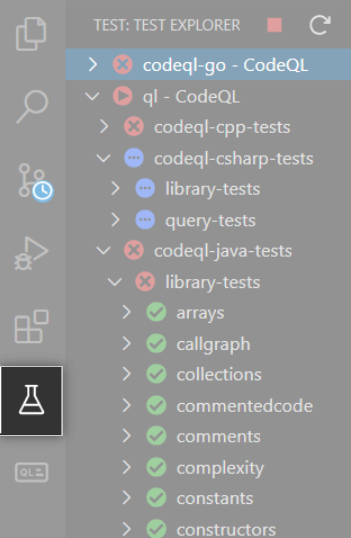
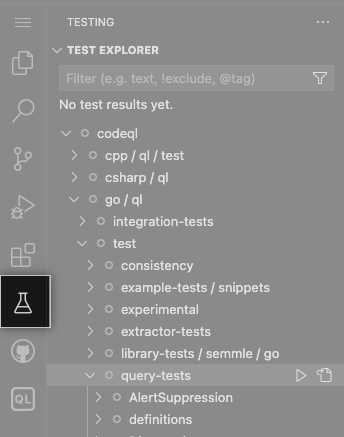
Update documentation for testing CodeQL queries in VS Code

diff --git a/docs/codeql/codeql-for-visual-studio-code/testing-codeql-queries-in-visual-studio-code.rst b/docs/codeql/codeql-for-visual-studio-code/testing-codeql-queries-in-visual-studio-code.rst
@@ -12,27 +12,31 @@ About testing queries in VS Code
 
 To ensure that your CodeQL queries produce the expected results, you can run tests that compare the expected query results with the actual results.
 
-The CodeQL extension automatically prompts VS Code to install the Test Explorer extension as a dependency. The Test Explorer displays any workspace folders with a name ending in ``-tests`` and provides a UI for exploring and running tests in those folders.
+The CodeQL extension automatically registers itself with the **Test Explorer** view. The **Test Explorer** view displays all tests found in your current workspace and provides a UI for exploring and running tests in your workspace.
 
 For more information about how CodeQL tests work, see "`Testing custom queries <https://docs.github.com/en/code-security/codeql-cli/using-the-codeql-cli/testing-custom-queries>`__" in the CLI help.
 
 Testing the results of your queries
 -----------------------------------
 
-1. Open the Test Explorer view in the sidebar.
+1. Open the **Test Explorer** view in the sidebar.
 
    .. image:: ../images/codeql-for-visual-studio-code/open-test-explorer.png
       :width: 350
       :alt: Open the Test Explorer view
 
 2. To run a specific test, hover over the file or folder name and click the play button. To run all tests in your workspace, click the play button at the top of the view. If a test takes too long to run, you can click the stop button at the top of the view to cancel the test.
-3. The icons show whether a test passed or failed. If it failed, right-click the failed test and click **CodeQL: Show Test Output Differences** to display the differences between the expected output and the actual output.
+3. The icons show whether a test passed or failed. If it failed, click the test in the **Test Results** panel to display the differences between the expected output and the actual output.
 
-   .. image:: ../images/codeql-for-visual-studio-code/show-test-diff.png
+   .. image:: ../images/codeql-for-visual-studio-code/test-results-panel.png
+      :width: 800
+      :alt: View the Test Results panel
+
+4. Compare the results. If you want to update the test with the actual output, right-click the test in the **Test Explorer** view and click **Accept Test Output**.
+
+   .. image:: ../images/codeql-for-visual-studio-code/accept-test-output.png
       :width: 400
-      :alt: Show test output differences
-
-4. Compare the results. If you want to update the test with the actual output, click **CodeQL: Accept Test Output**.
+      :alt: Acccept test output in the Test Explorer view
 
 Monitoring the performance of your queries
 ------------------------------------------
